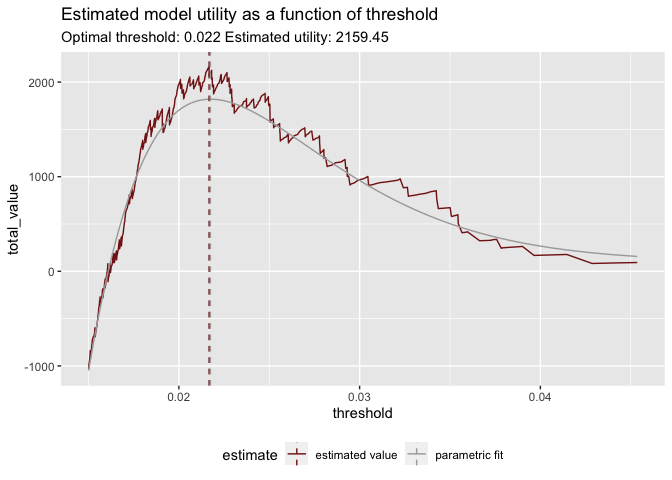
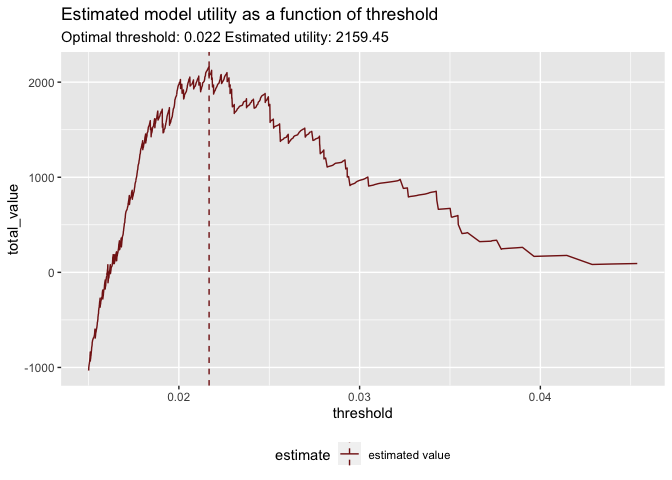
separate empirical and parametric plots

diff --git a/extras/utility_modeling/Utility_Sampling_Distribution.md b/extras/utility_modeling/Utility_Sampling_Distribution.md
@@ -37,8 +37,12 @@ knitr::kable(head(d, n=3))
 #  utilities
 true_positive_value <- 100 - 5   # net revenue - cost
 false_positive_value <- -5       # the cost of a call
-true_negative_value <-  0.01     # a small reward for getting them right
+true_negative_value <- 0.01      # a small reward for getting them right
 false_negative_value <- -0.01    # a small penalty for having missed them
+d$true_positive_value <- true_positive_value
+d$false_positive_value <- false_positive_value
+d$true_negative_value <- true_negative_value
+d$false_negative_value <- false_negative_value
 ```
 
 As we saw in the last article, this results in the following utility
@@ -102,8 +106,12 @@ source("calculate_utility_graph.R")
 #  utilities
 true_positive_value <- 100 - 5   # net revenue - cost
 false_positive_value <- -5       # the cost of a call
-true_negative_value <-  0.01     # a small reward for getting them right
+true_negative_value <- 0.01      # a small reward for getting them right
 false_negative_value <- -0.01    # a small penalty for having missed them
+d$true_positive_value <- true_positive_value
+d$false_positive_value <- false_positive_value
+d$true_negative_value <- true_negative_value
+d$false_negative_value <- false_negative_value
 
 # estimate_utility_graph() defined in 
 # https://github.com/WinVector/sigr/blob/main/extras/utility_modeling/calculate_utility_graph.R
@@ -111,11 +119,7 @@ false_negative_value <- -0.01    # a small penalty for having missed them
 unpack[plot_thin, boot_summary] <- estimate_utility_graph(
   d,
   prediction_column_name = "predicted_probability",
-  outcome_column_name = "converted",
-  true_positive_value = true_positive_value,
-  false_positive_value = false_positive_value,
-  true_negative_value = true_negative_value,
-  false_negative_value = false_negative_value)
+  outcome_column_name = "converted")
 ```
 
 (You can see the full use example in [the source code for this
@@ -180,7 +184,7 @@ knitr::kable(head(plot_thin, n=3))
 unique(plot_thin$estimate)
 ```
 
-    ## [1] "bootstrapped value" "estimated value"    "parametric fit"
+    ## [1] "bootstrapped value" "estimated value"
 
 We can use these two data frames to plot the utility curve with
 uncertainty. Here we show the original curve, the smoothed curve, and
@@ -190,10 +194,10 @@ the 50% and 95% quantile ranges around them.
 
 ### The smoothing curve
 
-Note that our `estimate_utility_graph()` function assumes that all
-rewards and costs are constant. This assumption isn’t necessary for the
-bootstrapping procedure; it’s only needed for the parametric smoothing
-curve that we calculate and add to the `plot_thin` data frame.
+Note that example uses constant rewards and costs. This assumption isn’t
+necessary for the bootstrapping procedure; it’s only needed for the
+parametric smoothing curve that we calculate and add to the `plot_thin`
+data frame.
 
 For a model that returns probability scores, we assume that the
 distributions of both the positive and negative scores (which you can
